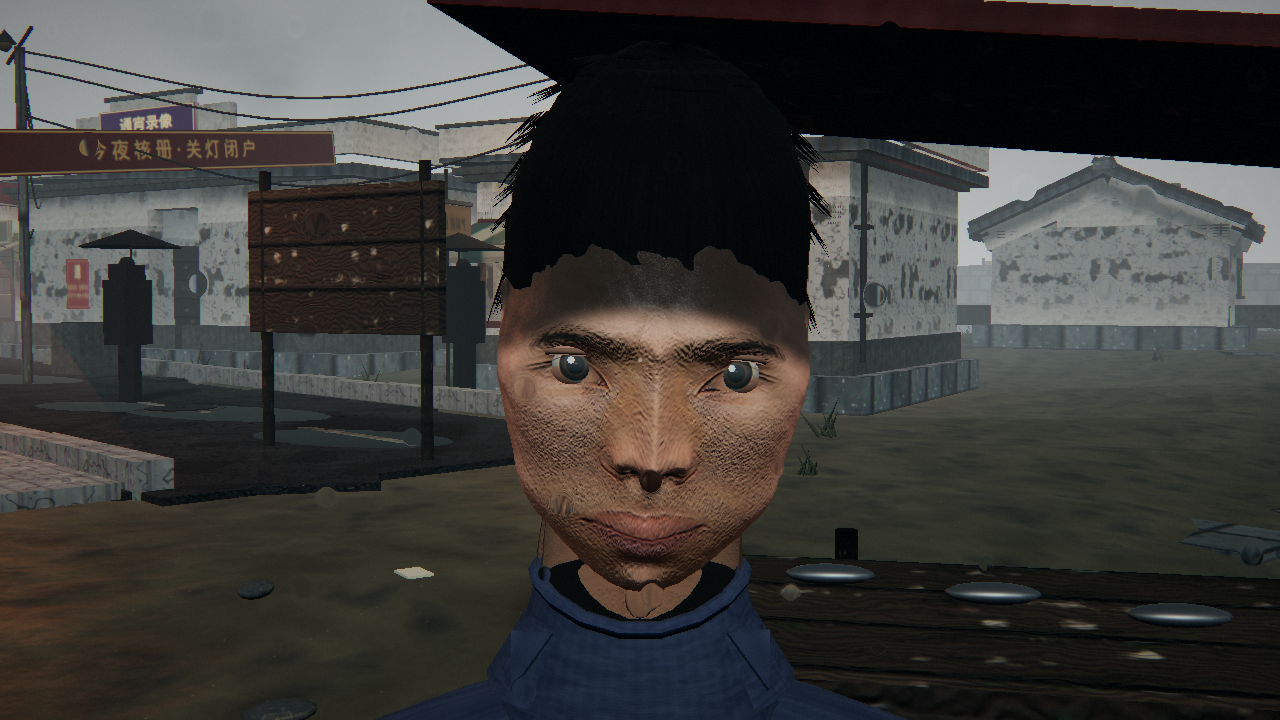
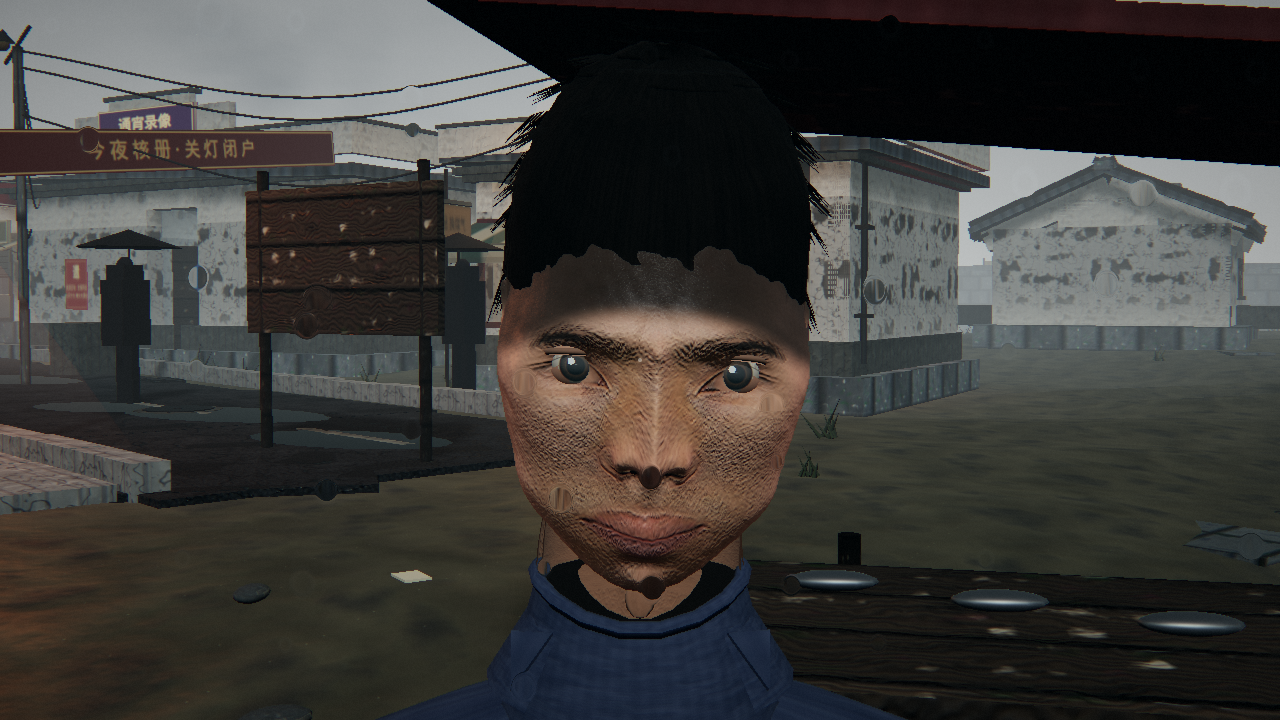
轮24五稿·独眼金属环根因+篷布洼根治:①emcee左眼竖白条真凶=巩膜球14段经线面片弦在顶点处比真球面高0.31mm,从虹膜冠(仅0.1mm余量)面片中段顶穿露出骨白巩膜——调试五连拍(藏光点/角膜/睑缘/钉睑全不消)锁定几何咬穿;虹膜冠半径0.0126→0.0129+分段20×8→28×10,冠面片最低点0.01282全程压住巩膜顶点0.0125,UV除数随半径同乘;②积水篷布根治——28面洼共用一张两级谐波抖动的杂形水线alpha贴图(10%渐隐带+alphaTest丢圈外像素,模板写入跟水形走),完美椭圆盘+匀色=蓝灰塑料布出局;广场洼自发光0.5→0.28(匀色过档),巨洼2.6/

diff --git a/src/world/town.js b/src/world/town.js
@@ -636,8 +636,37 @@ export function buildTown(scene, M) {
 
     // —— 雨夜积水：路面镜洼（车灯/街灯在里面拉出倒影条）——
     {
+      // 轮24五稿·「篷布洼」根治：完美椭圆盘+匀色=取证广角里一块铺在地上的
+      // 蓝灰塑料布。给所有洼共用一张「杂形水线」alpha 贴图——边缘是带
+      // 两级谐波抖动的不规则水线+3cm 渐隐带；alphaTest 丢弃圈外像素，
+      // 模板写入跟着水形走（幻潮镜像层的「窗」保持正确）
+      const puddleAlphaTex = (() => {
+        const S = 128, c = document.createElement('canvas');
+        c.width = c.height = S;
+        const x = c.getContext('2d');
+        const img = x.createImageData(S, S);
+        for (let j = 0; j < S; j++) {
+          for (let i = 0; i < S; i++) {
+            const dx = (i + 0.5) / S * 2 - 1, dy = (j + 0.5) / S * 2 - 1;
+            const r = Math.hypot(dx, dy);
+            const a = Math.atan2(dy, dx);
+            const rim = 0.74 + 0.13 * Math.sin(a * 3 + 1.7) + 0.08 * Math.sin(a * 7 + 0.4)
+              + 0.04 * Math.sin(a * 13 + 2.9);
+            const t = Math.min(1, Math.max(0, (rim - r) / 0.10)); // 10% 渐隐带
+            const v = Math.round(t * t * (3 - 2 * t) * 255);
+            const o = (j * S + i) * 4;
+            img.data[o] = img.data[o + 1] = img.data[o + 2] = v;
+            img.data[o + 3] = 255;
+          }
+        }
+        x.putImageData(img, 0, 0);
+        const tex = new THREE.CanvasTexture(c);
+        tex.needsUpdate = true;
+        return tex;
+      })();
       const puddleM = new THREE.MeshStandardMaterial({
         color: 0x11171a, roughness: 0.04, metalness: 0.92, envMapIntensity: 1.8,
+        alphaMap: puddleAlphaTex, transparent: true, alphaTest: 0.04,
       });
       // 写模板=1：异化后幻潮镜像层（潮网/鱼影）只在洼内像素显形
       puddleM.stencilWrite = true;
@@ -651,6 +680,7 @@ export function buildTown(scene, M) {
       ]) {
         const p = new THREE.Mesh(puddleG, puddleM);
         p.rotation.x = -Math.PI / 2;
+        p.rotation.z = (px * 2.3) % (Math.PI * 2); // 共用水线贴图靠旋转错开轮廓
         p.scale.set(s, s * sq, 1);
         p.position.set(px, g(px, pz) + 0.056, pz);
         scene.add(p);
@@ -665,7 +695,9 @@ export function buildTown(scene, M) {
         color: 0x39434a, roughness: 0.05, metalness: 0.45, envMapIntensity: 2.4,
         // 微量天光自发光：水面反射的是「被镇灯照亮的雨云穹」——环贴图天顶偏暗，
         // 纯反射在俯视角永远是黑；这层恒定水光让洼读成「泛光的水皮」不是地洞
-        emissive: 0x2b343c, emissiveIntensity: 0.5,
+        // 轮24五稿：0.5→0.28——匀色自发光过档=「塑料布」；水光只垫底，反射说话
+        emissive: 0x2b343c, emissiveIntensity: 0.28,
+        alphaMap: puddleAlphaTex, transparent: true, alphaTest: 0.04,
       });
       plazaM.stencilWrite = true;
       plazaM.stencilRef = 1;
@@ -673,12 +705,13 @@ export function buildTown(scene, M) {
       dynamic.plazaPuddles = [];
       for (const [px, pz, s, sq, rot] of [
         // 酒店门前场（正门台阶前一片带状洼地）
-        [-4, -38, 2.6, 0.42, 0.3], [-9.5, -36.5, 1.7, 0.5, 1.2], [1.5, -36, 1.9, 0.46, 2.1],
+        // 轮24五稿：头两号巨洼收档（2.6/2.2→1.9/1.7）——取证近景里 3m 塑料布
+        [-4, -38, 1.9, 0.42, 0.3], [-9.5, -36.5, 1.7, 0.5, 1.2], [1.5, -36, 1.7, 0.46, 2.1],
         [-1.5, -40.5, 1.4, 0.55, 0.7], [-13, -39, 1.2, 0.5, 1.8], [5.5, -39.5, 1.5, 0.48, 0.2],
         // 主街→酒店的空场（street_vista 前景）
-        [-3, -20, 2.2, 0.4, 0.9], [3.5, -24, 1.6, 0.5, 1.5], [-8, -25, 1.9, 0.45, 0.4],
+        [-3, -20, 1.7, 0.4, 0.9], [3.5, -24, 1.6, 0.5, 1.5], [-8, -25, 1.7, 0.45, 0.4],
         [-1, -28.5, 1.5, 0.52, 2.4], [-11, -30, 1.3, 0.5, 1.0], [6, -30, 1.2, 0.55, 1.9],
-        [-5.5, -32.5, 2.0, 0.42, 0.6], [2, -17.5, 1.3, 0.5, 2.8], [-9, -17, 1.1, 0.55, 1.3],
+        [-5.5, -32.5, 1.7, 0.42, 0.6], [2, -17.5, 1.3, 0.5, 2.8], [-9, -17, 1.1, 0.55, 1.3],
         // 民居间的洼（hotel_wide 前景两侧）
         [-16, -33, 1.4, 0.48, 0.5], [9, -34, 1.3, 0.5, 1.6], [12, -27, 1.0, 0.55, 2.2],
       ]) {

diff --git a/src/entities/humanoid.js b/src/entities/humanoid.js
@@ -2193,14 +2193,19 @@ export class Humanoid {
     // 只剩外缘一圈细环（历轮「白珠眼上一粒点」的真正根因）。改为贴球曲面壳：
     // 平面 UV 不动，顶点 z 压到略大于巩膜半径的球面上——虹膜整面浮出巩膜 0.1mm
     const irisG = G('irisDisc', () => {
-      // 球冠段（20×8 细分）而非三角扇：单圈扇的平面片中段塌进巩膜面片里，
+      // 球冠段细分而非三角扇：单圈扇的平面片中段塌进巩膜面片里，
       // 渲成一圈黑白交替楔（虹膜被巩膜条纹状咬穿）；细分球冠全程贴合有余量
-      const g = new THREE.SphereGeometry(0.0126, 20, 8, 0, Math.PI * 2, 0, 0.675);
+      // 轮24五稿·竖白条根治：0.1mm 余量不够——巩膜球只有 14 段经线，
+      // 面片弦在顶点处比真球面高出最多 0.31mm，正好从虹膜冠面片中段顶穿，
+      // 近景读成虹膜里一根竖向骨白条（emcee「独眼金属环」真正根因）。
+      // 冠半径 0.0126→0.0129 + 分段 20→28：冠面片最低点 0.01282 全程压住
+      // 巩膜顶点最高点 0.0125，任何机位不再露底
+      const g = new THREE.SphereGeometry(0.0129, 28, 10, 0, Math.PI * 2, 0, 0.675);
       g.rotateX(Math.PI / 2); // 冠顶转向 +z（面前方）
       const p2 = g.attributes.position, uv2 = g.attributes.uv;
       for (let i = 0; i < p2.count; i++) {
-        // 平面投影 UV：贴图按弦盘展开（与旧平面盘同一坐标约定）
-        uv2.setXY(i, p2.getX(i) / 0.0156 + 0.5, p2.getY(i) / 0.0156 + 0.5);
+        // 平面投影 UV：贴图按弦盘展开（与旧平面盘同一坐标约定；除数随半径同乘）
+        uv2.setXY(i, p2.getX(i) / 0.01597 + 0.5, p2.getY(i) / 0.01597 + 0.5);
       }
       return g;
     });
